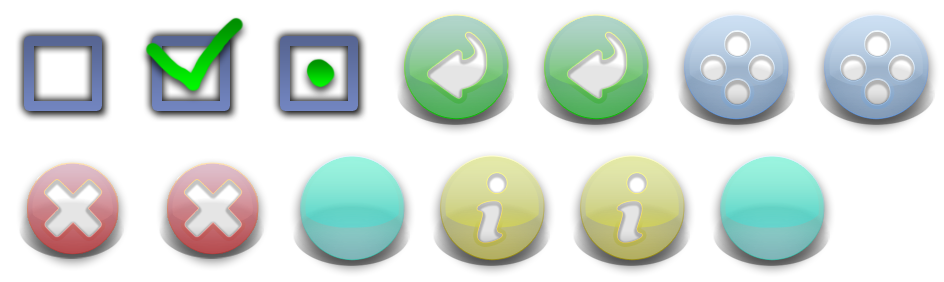
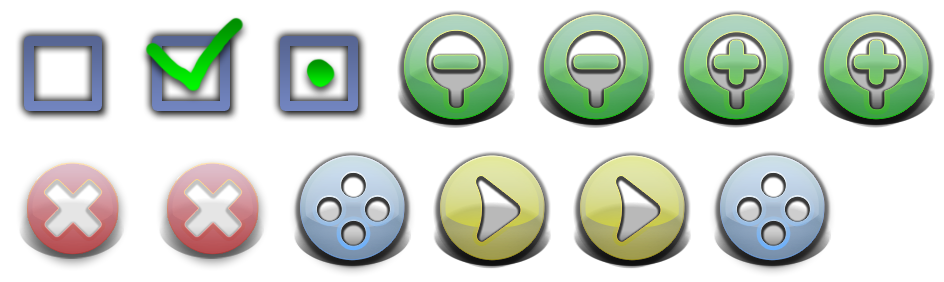
g

diff --git a/core/src/com/volcanopuzzle/vstage/VStageMain.java b/core/src/com/volcanopuzzle/vstage/VStageMain.java
@@ -118,7 +118,7 @@ public class VStageMain extends InputListener {
         mainStage.addActor(selectorTable);
         
         
-        buttonMain = new ImageButton(VStaticAssets.GUI.buttonsSkin.getDrawable("button-main-on"), VStaticAssets.GUI.buttonsSkin.getDrawable("button-main"));
+        buttonMain = new ImageButton(VStaticAssets.GUI.buttonsSkin.getDrawable("button-main-light-on"), VStaticAssets.GUI.buttonsSkin.getDrawable("button-main-light"));
         buttonMain.setSize(buttonIconSize, buttonIconSize);          
         buttonMain.setName("BUTTON_MAIN");
         buttonMain.setPosition(buttonOffset, buttonOffset);
@@ -134,7 +134,7 @@ public class VStageMain extends InputListener {
         mainStage.addActor(buttonClose);
         
         groupNext = new Group();
-        ImageButton buttonNext = new ImageButton(VStaticAssets.GUI.buttonsSkin.getDrawable("button-return-on"), VStaticAssets.GUI.buttonsSkin.getDrawable("button-return"));
+        ImageButton buttonNext = new ImageButton(VStaticAssets.GUI.buttonsSkin.getDrawable("button-next-on"), VStaticAssets.GUI.buttonsSkin.getDrawable("button-next"));
         buttonNext.setSize(buttonIconSize, buttonIconSize);          
         buttonNext.setName("BUTTON_NEXT");
         buttonNext.setPosition(swidth - buttonIconSize - buttonOffset, buttonOffset);
@@ -147,14 +147,14 @@ public class VStageMain extends InputListener {
         labelButtonNext.setPosition(labelx, labely);        
         groupNext.addActor(labelButtonNext);
         
-        ImageButton buttonZoomIn = new ImageButton(VStaticAssets.GUI.buttonsSkin.getDrawable("button-generic-on"), VStaticAssets.GUI.buttonsSkin.getDrawable("button-generic"));
+        ImageButton buttonZoomIn = new ImageButton(VStaticAssets.GUI.buttonsSkin.getDrawable("button-zoomin-on"), VStaticAssets.GUI.buttonsSkin.getDrawable("button-zoomin"));
         buttonZoomIn.setSize(buttonIconSize, buttonIconSize);          
         buttonZoomIn.setName("BUTTON_ZOOM_IN");
         buttonZoomIn.setPosition(swidth - buttonIconSize - buttonOffset, sheight - buttonIconSize - buttonOffset);
         buttonZoomIn.addListener(this); 
         groupNext.addActor(buttonZoomIn);
         
-        ImageButton buttonZoomOut = new ImageButton(VStaticAssets.GUI.buttonsSkin.getDrawable("button-generic-on"), VStaticAssets.GUI.buttonsSkin.getDrawable("button-generic"));
+        ImageButton buttonZoomOut = new ImageButton(VStaticAssets.GUI.buttonsSkin.getDrawable("button-zoomout-on"), VStaticAssets.GUI.buttonsSkin.getDrawable("button-zoomout"));
         buttonZoomOut.setSize(buttonIconSize, buttonIconSize);          
         buttonZoomOut.setName("BUTTON_ZOOM_OUT");
         buttonZoomOut.setPosition(buttonOffset, sheight - buttonIconSize - buttonOffset);
